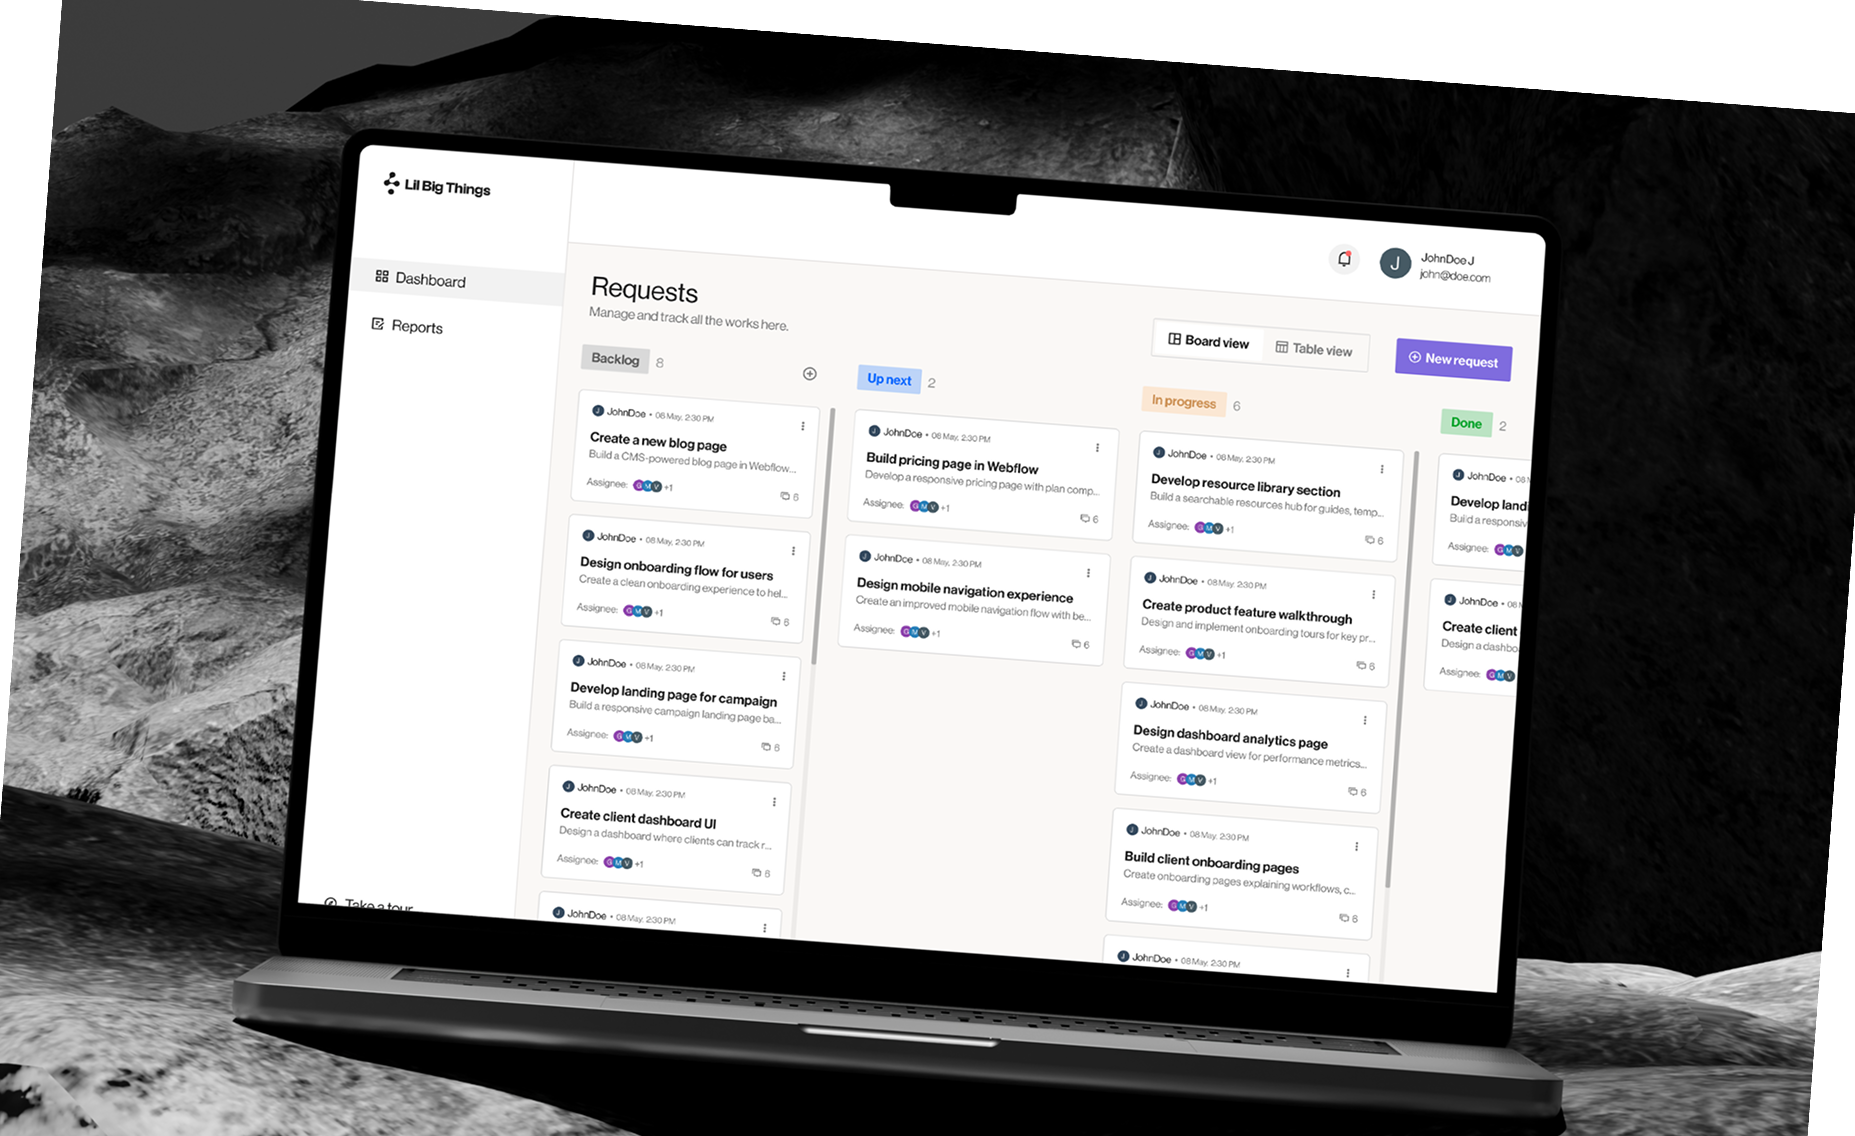
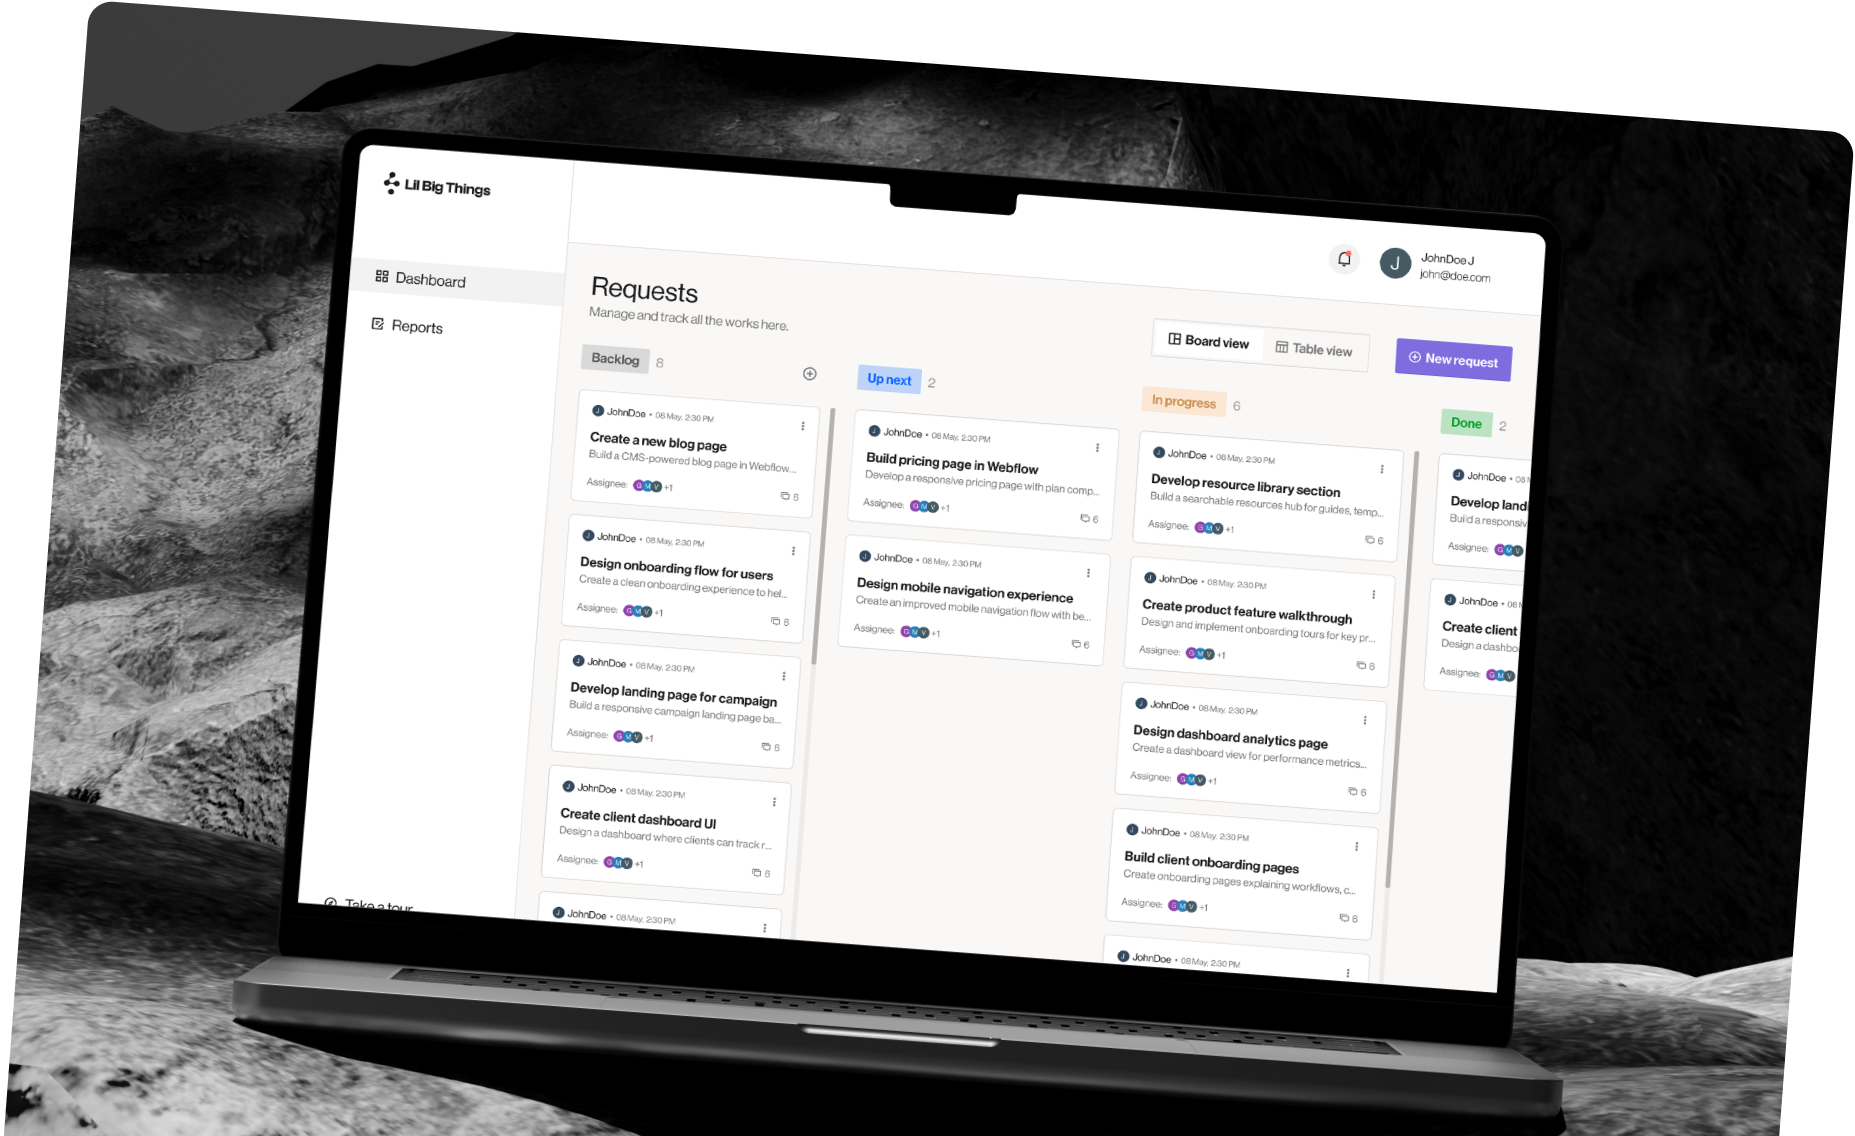
fix bugs

Changed region(s): [[0.0, 0.0, 1.0, 1.0]]

diff --git a/src/components/case-study/CaseStudyPage.jsx b/src/components/case-study/CaseStudyPage.jsx
@@ -3,6 +3,10 @@ import { Link } from "react-router-dom";
 import pixelwhiskLogo from "../../assets/logo/pixelwhisklogo.svg";
 import lilbigthingsLogo from "../../assets/logo/lilbigthings.svg";
 import caseStudy0001Image from "../../assets/case-study2/0001.png";
+import whiskImage from "../../assets/case-study1/whisk.png";
+
+
+
 
 // ─── Typography primitive ────────────────────────────────────────────────────
 function T({ children, className = "", style }) {
@@ -341,6 +345,28 @@ function CaseStudyContent({ data }) {
 function CaseStudyNavigation({ data }) {
   const [hovered, setHovered] = React.useState(false);
 
+  const laptopConfig = {
+    "Lil Big Things": {
+      src: data.nextCaseStudy?.animationImage || caseStudy0001Image,
+      width: "442.59px",
+      height: "297.51px",
+      borderRadius: "6px",
+      rotation: "4.32deg",
+      bottom: "-25px",
+    },
+
+    "PixelWhisk": {
+      src: data.nextCaseStudy?.animationImage || whiskImage,
+      width: "442.59px",
+      height: "297.51px",
+      borderRadius: "6px",
+      rotation: "4.32deg",
+      bottom: "-25px",
+    },
+  };
+
+  const config = laptopConfig[data.nextCaseStudy?.name];
+
   return (
     <section
       style={{
@@ -371,29 +397,31 @@ function CaseStudyNavigation({ data }) {
         }}
       >
         {/* Laptop mockup — slides up from below on hover */}
-        <img
-          src={
-            data.nextCaseStudy?.laptopImage ||
-            data.nextCaseStudy?.animationImage ||
-            (data.title === "Lil Big Things" ? caseStudy0001Image : "/laptop/scene1.png")
-          }
-          alt=""
-          aria-hidden="true"
-          style={{
-            position: "absolute",
-            bottom: "-25px",
-            left: "50%",
-            width: "442.59px",
-            height: "297.51px", 
-            borderRadius: "6px",
-            transform: hovered
-              ? "translateX(-50%) translateY(0) rotate(4.32deg)"
-              : "translateX(-50%) translateY(110%) rotate(4.32deg)",
-            transition: "transform 0.3s ease-in-out",
-            pointerEvents: "none",
-            userSelect: "none",
-          }}
-        />
+        {config?.src && (
+          <img
+            src={config.src}
+            alt=""
+            aria-hidden="true"
+            style={{
+              position: "absolute",
+              bottom: config.bottom || "-25px",
+              left: "50%",
+              width: config.width,
+              height: config.height,
+              borderRadius: config.borderRadius,
+              display: "block",
+
+              transform: hovered
+                ? `translateX(-50%) translateY(0) rotate(${config.rotation})`
+                : `translateX(-50%) translateY(125%) rotate(${config.rotation})`,
+
+              transformOrigin: "center center",
+              transition: "transform 0.3s ease-in-out",
+              pointerEvents: "none",
+              userSelect: "none",
+            }}
+          />
+        )}
 
         {/* Content row — space-between, px 64px, vertically centred */}
         <div

diff --git a/src/components/Hero.jsx b/src/components/Hero.jsx
@@ -16,20 +16,20 @@ export default function Hero() {
 
 
       {/* Vertical Guideline Accents (Matching Figma) */}
-      <div className="absolute inset-0 pointer-events-none z-10 flex justify-center">
-        <div className="w-full max-w-[1440px] h-full relative">
+      {/* <div className="absolute inset-0 pointer-events-none z-10 flex justify-center">
+        <div className="w-full max-w-[1440px] h-full relative"> */}
           {/* Left Vertical Lines */}
-          <div className="absolute top-0 bottom-0 left-[48px] w-[1px] bg-white/[0.04]" />
-          <div className="absolute top-0 bottom-0 left-[64px] w-[1px] bg-white/[0.04]" />
+          {/* <div className="absolute top-0 bottom-0 left-[48px] w-[1px] bg-white/[0.04]" />
+          <div className="absolute top-0 bottom-0 left-[64px] w-[1px] bg-white/[0.04]" /> */}
 
           {/* Center Column Vertical Line */}
-          <div className="absolute top-0 bottom-0 left-[58%] w-[1px] bg-white/[0.04] hidden lg:block" />
+          {/* <div className="absolute top-0 bottom-0 left-[58%] w-[1px] bg-white/[0.04] hidden lg:block" /> */}
 
           {/* Right Vertical Lines */}
-          <div className="absolute top-0 bottom-0 right-[64px] w-[1px] bg-white/[0.04]" />
+          {/* <div className="absolute top-0 bottom-0 right-[64px] w-[1px] bg-white/[0.04]" />
           <div className="absolute top-0 bottom-0 right-[48px] w-[1px] bg-white/[0.04]" />
         </div>
-      </div>
+      </div> */}
 
       {/* Main Content Area */}
       <div className="relative z-20 w-full max-w-[1440px] mx-auto px-6 md:px-16 pt-16 md:pt-24 pb-12 my-auto">

diff --git a/src/components/CTASection.jsx b/src/components/CTASection.jsx
@@ -50,11 +50,11 @@ export default function CTASection() {
 
             <a
               href="https://www.linkedin.com/in/krishnakumar19/"
-              target="_blank"
+              target="_blank" 
               rel="noreferrer"
               className="inline-flex items-center justify-center  h-[62px] gap-3 p-6 rounded-[45px] bg-white text-black hover:bg-[#999999] transition-all text-[24px] font-medium shadow-lg group shadow-white/5"
             >
-              <span className='text-[24px] font-["Darker_Grotesque"] font-medium leading-[120%] tracking-normal text=[#1B1B1B] '>LinkedIn</span>
+              <span className='text-[24px] font-["Darker_Grotesque"] font-medium tracking-normal text=[#1B1B1B] '>LinkedIn</span>
               <span className="transition-transform group-hover:translate-x-1 hover:-translate-y-1 ">
                 <img src={assets.sideArrow} alt="sidearrow" />
               </span>

diff --git a/src/pages/CaseStudy02.jsx b/src/pages/CaseStudy02.jsx
@@ -9,6 +9,7 @@ import exploringFlowImage from "../assets/case-study2/Frame_2147258296.svg";
 import refiningExperienceImage from "../assets/case-study2/Frame_2147258297.svg";
 import finalProductImage from "../assets/case-study2/Frame_2147258298.svg";
 import buildingFoundationImage from "../assets/case-study2/Frame_2147258300.svg";
+import caseStudy0001Image from "../assets/case-study2/0001.png";
 
 const caseStudy02 = {
   title: "PixelWhisk",
@@ -17,7 +18,7 @@ const caseStudy02 = {
 
   backAnchor: "/#case-study-pixelwhisk",
 
-  heroVideoUrl: "https://www.youtube.com/embed/s_fWEqYIYx8?autoplay=1&controls=1",
+  heroVideoUrl: "https://www.youtube.com/embed/HqvARXk1TcU?autoplay=1&controls=1", 
 
   sidebar: {
     role: {
@@ -190,6 +191,7 @@ const caseStudy02 = {
   nextCaseStudy: {
     name: "Lil Big Things",
     path: "/case-study/lil-big-things",
+    animationImage: caseStudy0001Image,
   },
 };
 

diff --git a/src/components/CaseStudy1.jsx b/src/components/CaseStudy1.jsx
@@ -49,7 +49,7 @@ export default function CaseStudy1() {
               to="/case-study/pixelwhisk"
               className="inline-flex  h-[64px] items-center justify-center bg-white gap-3 p-6 rounded-[45px] border border-white/30 text-[#1B1B1B] hover:bg-[#999999] transition-all font-['Darker_Grotesque'] font-medium text-[24px] group"
             >
-              <span>View Case Study</span>
+              <span className='text-trim'>View Case Study</span>
               <span className="transition-transform group-hover:translate-x-1">
                 <img src={assets.leftArrow} alt="left arrow" />
               </span>

diff --git a/src/components/PortraitMockup.jsx b/src/components/PortraitMockup.jsx
@@ -9,11 +9,11 @@ export default function PortraitMockup({
 
       {/* Subtle Inner Glow */}
       <div
-        className="absolute inset-0 pointer-events-none opacity-40"
-        style={{
-          background:
-            'radial-gradient(circle at 50% 60%, rgba(59, 130, 246, 0.2) 0%, transparent 80%)'
-        }}
+        className="absolute inset-0 pointer-events-none opacity-40 bg-white/5"
+        // style={{
+        //   background:
+        //     'radial-gradient(circle at 50% 60%, rgba(59, 130, 246, 0.2) 0%, transparent 80%)'
+        // }}
       /> 
 
       <img

diff --git a/src/pages/CaseStudy01.jsx b/src/pages/CaseStudy01.jsx
@@ -10,6 +10,8 @@ import wireframesImage from "../assets/case-study1/wireframes.png";
 import finalScreensImage from "../assets/case-study1/final-screens.svg";
 import designSystemImage from "../assets/case-study1/design-system.svg";
 
+import whiskImage from "../assets/case-study1/whisk.png";
+
 const caseStudy01 = {
   title: "Lil Big Things",
 
@@ -163,6 +165,7 @@ const caseStudy01 = {
   nextCaseStudy: {
     name: "PixelWhisk",
     path: "/case-study/pixelwhisk",
+    animationImage: whiskImage,
   },
 };
 

diff --git a/src/index.css b/src/index.css
@@ -2,6 +2,13 @@
 @tailwind components;
 @tailwind utilities;
 
+@layer utilities {
+  .text-trim {
+    text-box-trim: both;
+    text-box-edge: cap alphabetic;
+  }
+}
+
 @layer base {
   * {
     font-family: 'Darker Grotesque', sans-serif;
